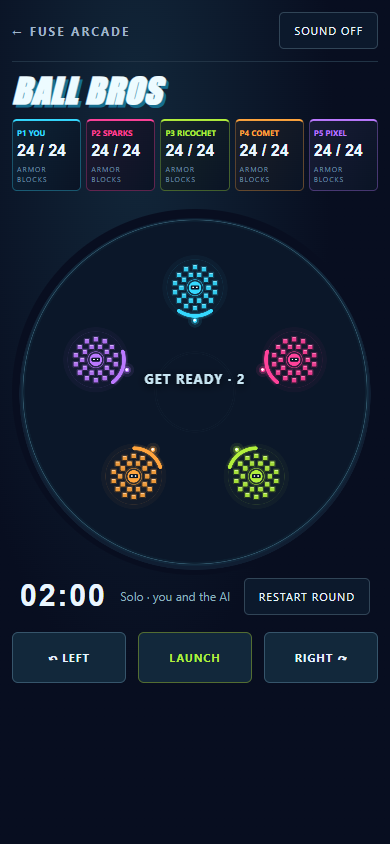
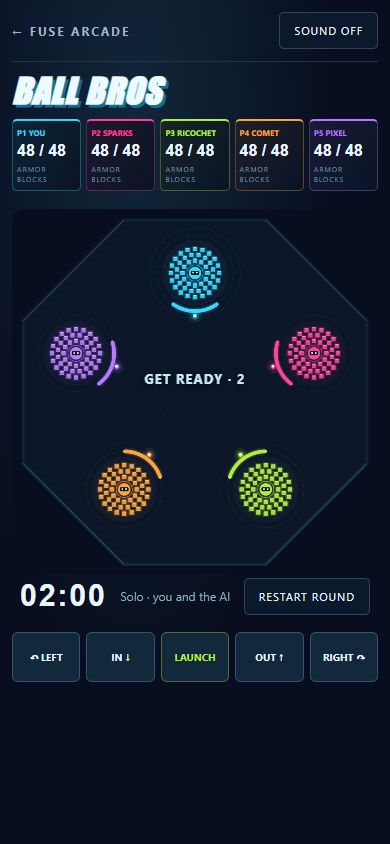
Refresh Ball Bros octagon playtest evidence

diff --git a/docs/online/ui-evidence/ball-bros/README.md b/docs/online/ui-evidence/ball-bros/README.md
@@ -1,8 +1,8 @@
 # Ball Bros phases 0–1
 
-Real solo flow, muted, through the Fuse Riders landing link. Captured with `pnpm exec tsx games/ball-bros/smoke.ts` against the local built service at port 8792, source `676b4beb`. The later keyboard-focus correction does not change the appearance.
+Real solo flow, muted, through the Fuse Riders landing link. Captured with `pnpm exec tsx games/ball-bros/smoke.ts` against the local built service at port 8792, source `b44654c9` (octagon and radial-control iteration).
 
 - [Desktop](desktop.png): 1440×1000, after launching and observing block damage.
 - [Phone viewport](phone.png): 390×844, touch-capable browser emulation, no horizontal overflow. This is not physical-phone evidence.
 
-The same run completed a round, used PLAY AGAIN, and checked that armor reset. It also checked keyboard steering/launch and an explicit round restart. No injected game state or accelerated clock was used.
+The same run completed a round, used PLAY AGAIN, and checked that all 48 armor blocks reset. It also exercised combined A/D and W/S inputs, Space launch, five touch buttons and an explicit round restart. The smoke observes launch/damage/results; precise radial displacement and cancellation are asserted by engine/runtime tests. No injected game state or accelerated clock was used.
